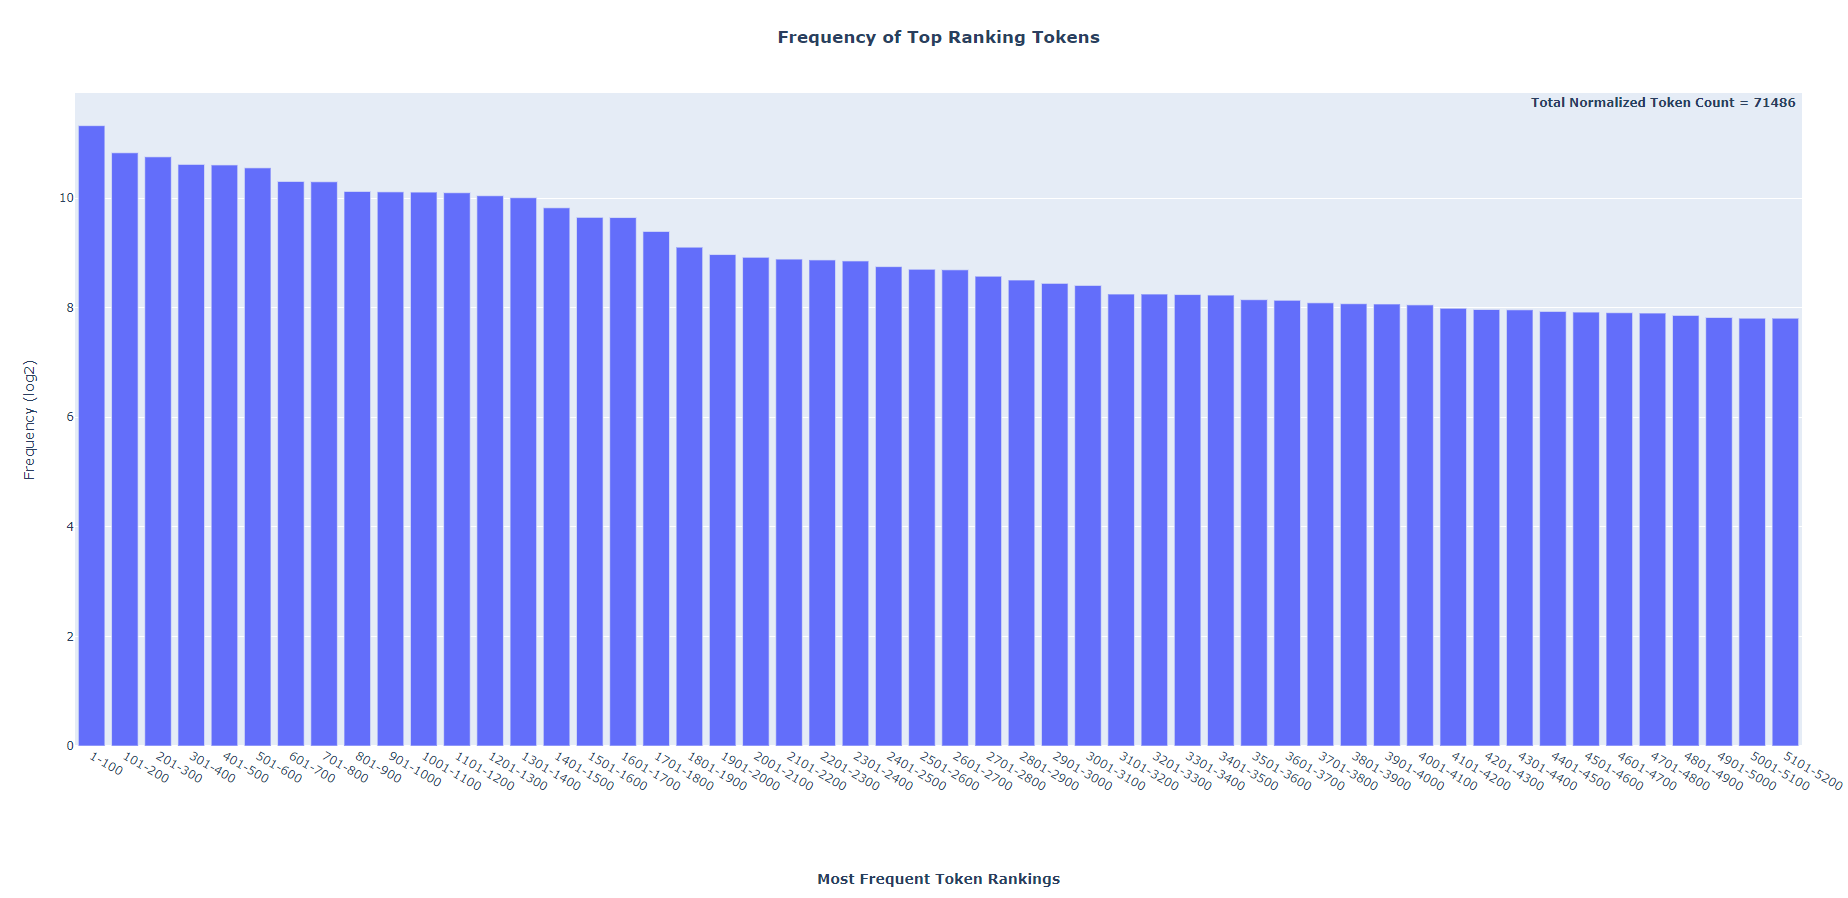
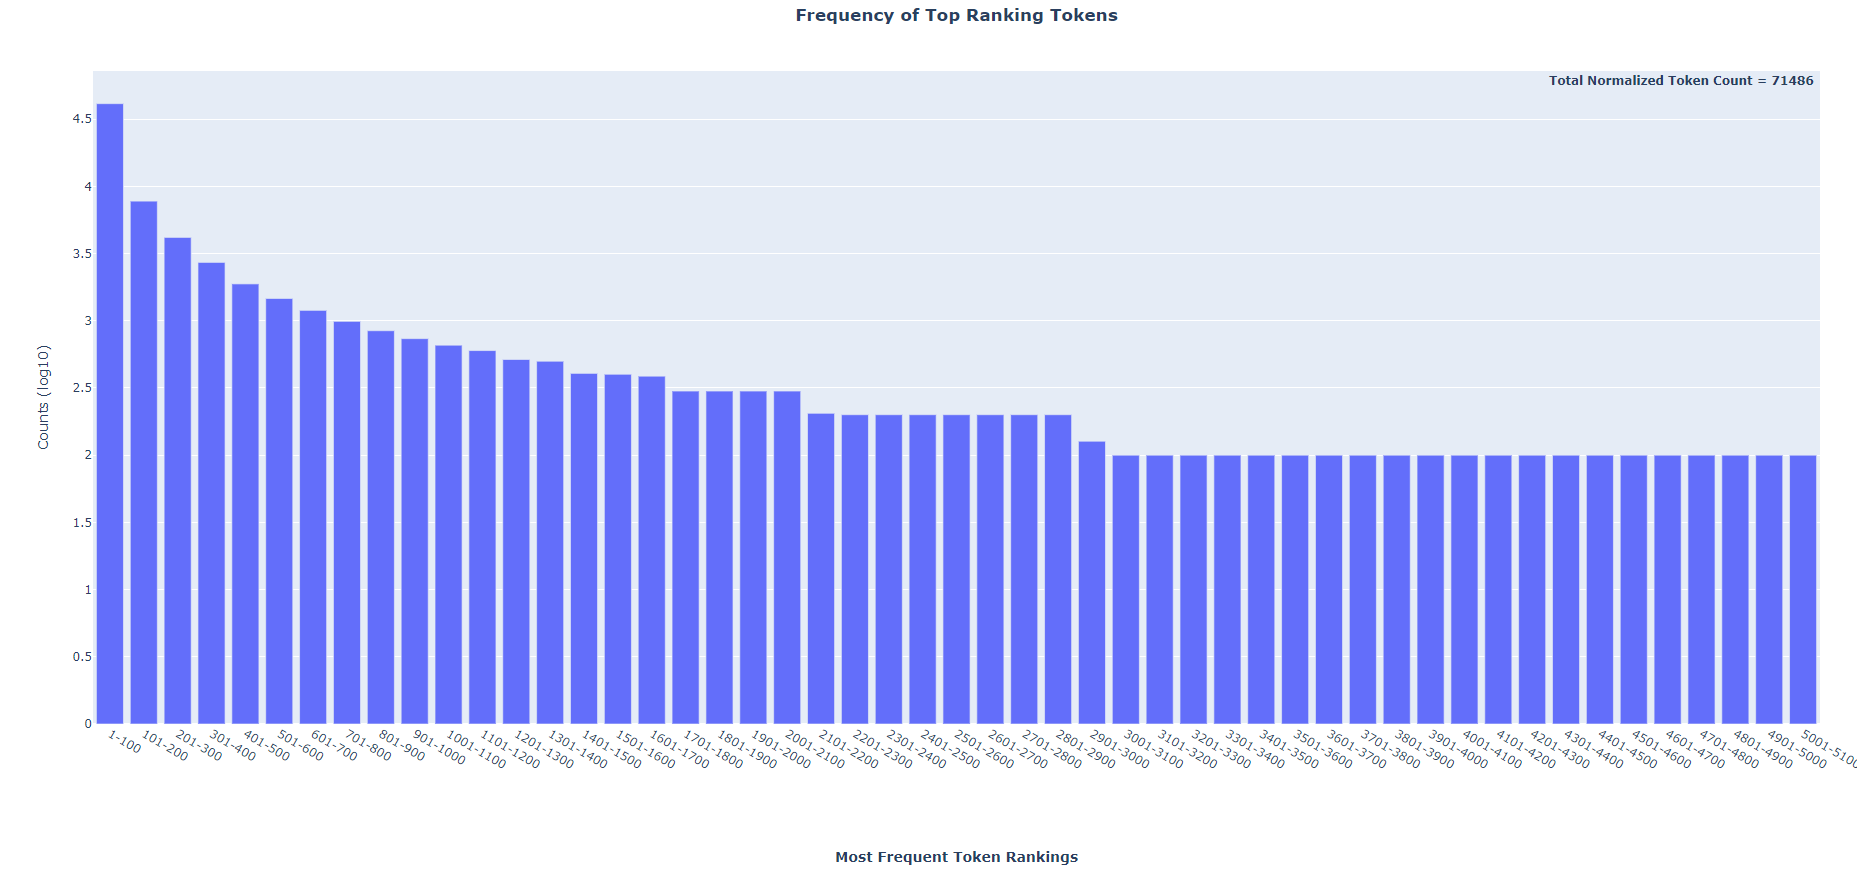
Update logspace

diff --git a/normalize_text.py b/normalize_text.py
@@ -91,14 +91,13 @@ def determine_counts(tokens, args):
 # OpenAI Helped to Create Histogram Code. X axis is token. Y axis is count.
 def histogram(count_list, total_wc):
     df = pd.DataFrame(list(count_list.items()), columns=['Tokens', 'Counts'])
-    df['Token_Bins'] = pd.cut(df.index, bins=np.arange(-1, len(df)+100, 100), labels=False)
+    df['Token_Bins'] = pd.cut(df.index, bins=np.arange(-1, len(df), 100), labels=False)
 
-    grouped_df = df.groupby('Token_Bins').sum()
-    grouped_df['Frequency (log2)'] = np.log2(df['Counts'])
+    grouped_df = df.groupby('Token_Bins').agg({'Counts': 'sum'}).reset_index()
+    grouped_df['Counts (log10)'] = grouped_df['Counts'].transform(lambda x: np.log10(x))
     bin_ranges = [f'{i}-{i+99}' for i in range(1, len(grouped_df)*100, 100)] 
 
-
-    fig = px.bar(grouped_df, x=bin_ranges, y='Frequency (log2)', labels={'x': '<b> Most Frequent Token Rankings </b>', 'y': '<b> Frequency Count (log2) </b>'}, title='<b>Frequency of Top Ranking Tokens')
+    fig = px.bar(grouped_df, x=bin_ranges, y='Counts (log10)', labels={'y': '<b> Counts (log10)</b>', 'x': '<b> Most Frequent Token Rankings </b>'}, title='<b>Frequency of Top Ranking Tokens')
     fig.update_layout(title_x=0.5, xaxis_title_standoff=80)
     fig.add_annotation(text=f'<b>Total Normalized Token Count = {total_wc} </b>', xref='paper', yref='paper', x=1, y=1,showarrow=False, font=dict(size=12))
     fig.update_traces(textfont_size=12, textangle=0, textposition="outside", cliponaxis=False)

diff --git a/report.md b/report.md
@@ -24,6 +24,8 @@
       > Ex: wouldn't instead of would shows being opposed to vs. being open to
     * Reverse Order
       > Gives least frequently used normalized tokens from the text.
+    * Individual Word Selection
+      > Allows the corpus to pull out the individual tokens occurring most frequently instead putting them in ranking buckets.
 * Created a .txt file involving stopwords found on GitHub with hundreds of example words
 * Used NLTK for PortStemmer
 * Split text into tokens. Made the tokens the key values in a dictionary with their frequency counts as the values.
@@ -50,13 +52,13 @@
 # DISCUSSION
 
 ### Part One
-While looking at the most frequenlty occurring tokens ranked in order and bucketed via 100 tokens, I was surprised by the lack of decay. I was fully expecting the top 100 tokens to contain a ton of stopwords that would drastically outnumber other words. When I was working on the plotting, I fiddled with changing the buckets to include only ten tokens per bucket, and there was a more visible exponential decay distribution. When the individual words are noted, this finding accentuates even more. <br>
+While looking at the most frequenlty occurring tokens ranked in order and bucketed via 100 tokens, the graph provided above may not signal that largest indication of exponential decay -- however, that is because the count values are in log form. Without log form, there is a significant decline from the bucket of stop words compared to other token buckets of lesser frequency ranking. When the amount of tokens in each ranking bucket is decreased (ex: from 100 to 10), this form of decay is even more apparent because some words that act as stop words are significantly more likely.  <br>
 
 Originally, upon using my program with just the lowercase parameter, all top ten words were stop words. After adjusting for this and using my stop word argument, a majority of the top ten words (for multiple texts) became nouns! This was surprising, as I was expecting that the removal of the stopword parameter would cause there to be a large amount of verbs; however, upon thought it makes sense because usually the repetition of descriptive words and actions wears them out. Meanwhile, the bottom words on my list just happened to be ten tokens that were only used a single time. There were plenty more tokens that were also only used a single time -- however, the program only selected ten of them so these words could have been different. With that being said, these words, for the most part, are either unique verbs or adjectives.<br>
 
-Compared to Zipf's law (stating that the most common word occurs about n times the nth most common one), my sample text doesn't really follow this sentiment with the inclusion of stopwords. Instead it almost looks like the top ten words are linearly decreasing. If I increase the parameter of tokens to be read to be higher, I wonder if this would model more accurate. With the exclusion of stopwords, the histogram looks more like an exponential function, however, after n equals about 4, it levels off. This may be because my sample text was written in the third person and the main character's name is said an extremely large amount of times -- skewing the data. Deviations from Zipf's laws are said to occur with unique language instances, which may be occurring here since my sample text was written from a Canadian author in the 1920s.<br>
+Compared to Zipf's law (stating that the most common word occurs about n times the nth most common one), my sample text doesn't really follow this sentiment with the inclusion of stopwords from an individual word perspective. Instead it almost looks like the top ten words are linearly decreasing. If I increase the parameter of tokens to be read to be higher, I wonder if this would model more accurate. When the model is used with the ranking system on the x-axis, Zipf's law is much more noticeable as the most frequent words are exponentially more likely to appear than the least frequent. Additionally, the levelling off occurs around 2, which is log10(100) and this makes sense because the least occurring words are occurring only once. If buckets were marginalized, this exponential decay would approach zero, but never go under one.<br>
 
-When sampling other texts, like *Moby-Dick*, the inclusion of stopwords modelled Zipf's law much better. An additional idea for this discrepancy may be that *Moby-Dick* is about 4x as long as my sample text so that the larger the count of tokens to sample, the more a text will fit into the model.
+When sampling other texts, like *Moby-Dick*, the inclusion of stopwords actually modelled Zipf's law even better! An additional idea for this discrepancy may be that *Moby-Dick* is about 4x as long as my sample text so that the larger the count of tokens to sample, the more a text will fit into the model.
 
 
 ### Part Two
